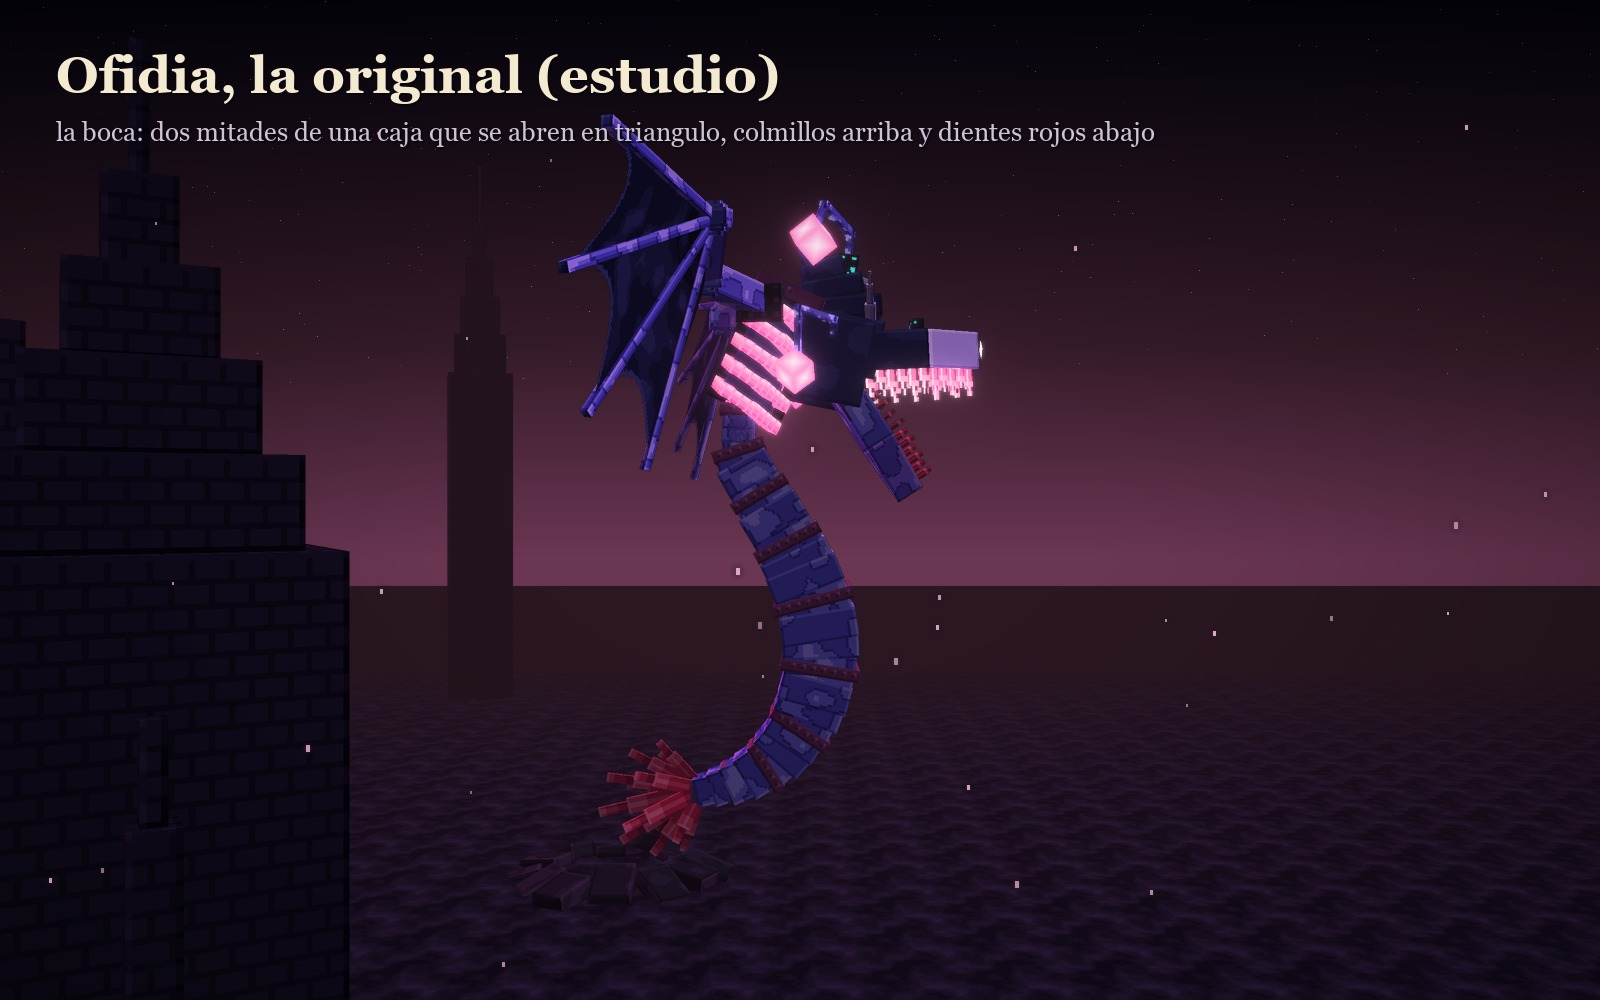
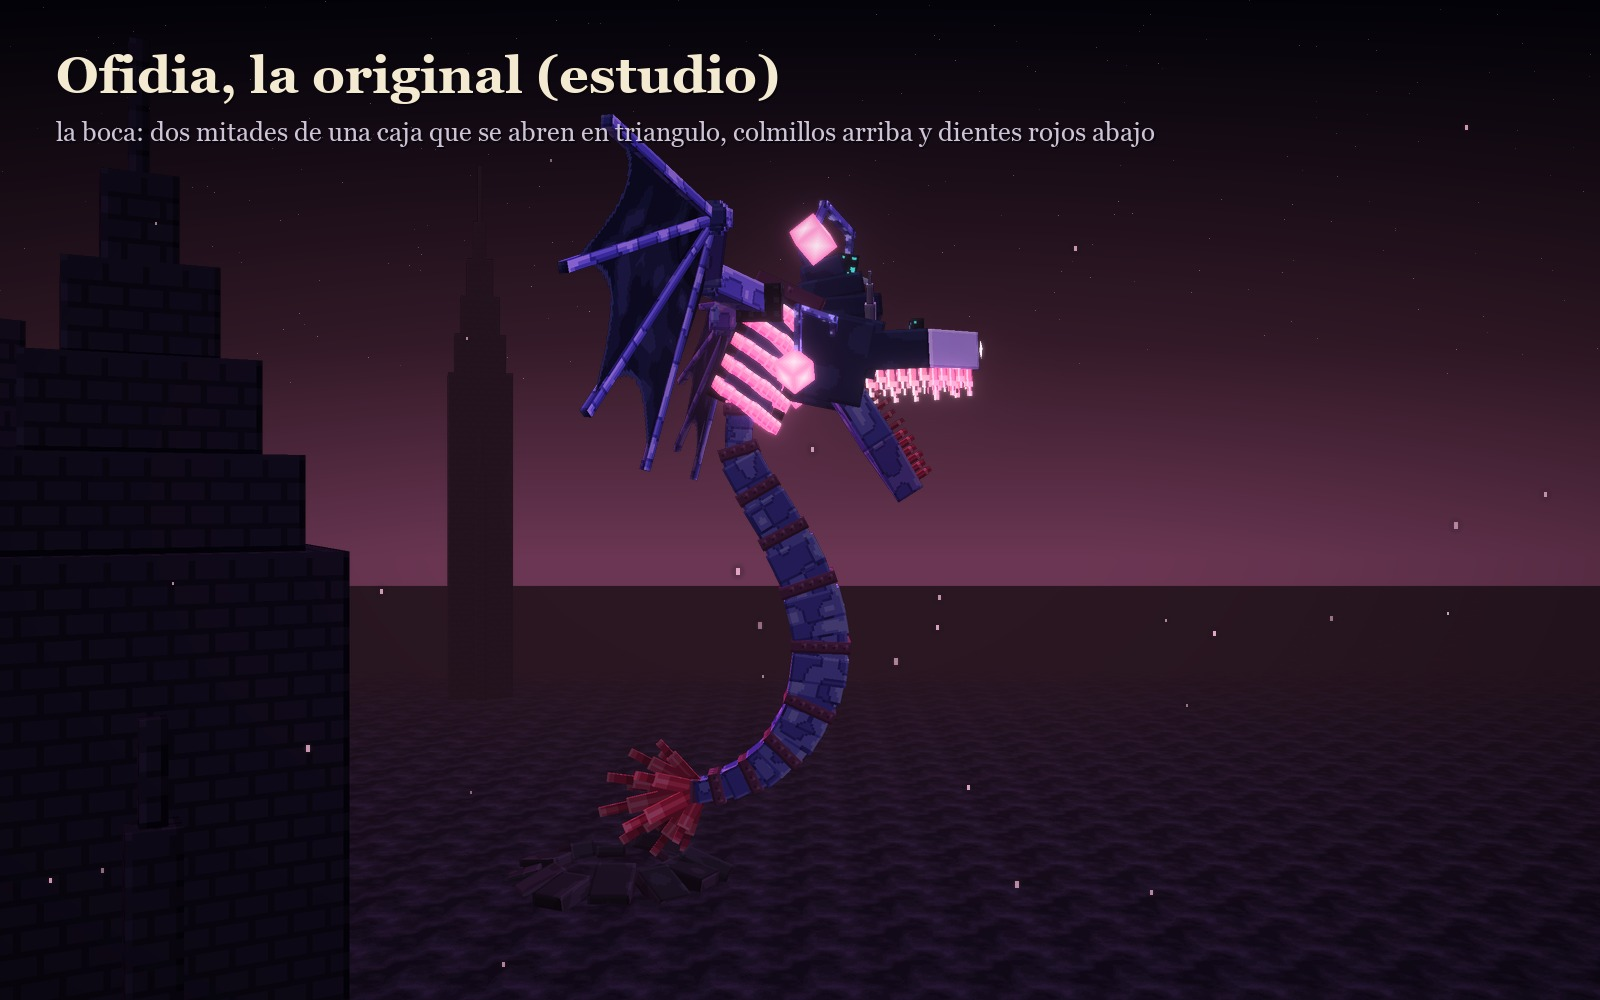
Ofidia sheet: narrower body overall
Juan asked for a less wide body in general. The drums still go from
small to big to small, now about three quarters as wide and a bit
longer each; the square drums looked even wider seen diagonally.

Changed region(s): [[0.4375, 0.434, 0.5625, 0.806]]

diff --git a/materiales/generadores/ofidia_modelo.py b/materiales/generadores/ofidia_modelo.py
@@ -22,8 +22,7 @@ bien su portada».
       rosas gruesas que brillan, con el canto blanco, que se abren hacia arriba, con huecos
       oscuros entre ellas, la columna detras y el esternon delante); la cintura, pequena; y
       debajo, tambores de marmol con su cinturon que van de menor a mayor y de mayor a menor
-      hasta la cola (lo mas gordo, a la mitad, algo mas del doble que la cintura, sin llegar a
-      gordo);
+      hasta la cola (lo mas gordo, a la mitad, el doble que la cintura, sin llegar a ancho);
     - dos alas de murcielago: el brazo (codo hacia atras, muneca hacia delante) y cuatro dedos
       largos en abanico, con la membrana azul noche tendida solo entre ellos y el borde libre en
       arcos (nada en las axilas). No llevan luz;
@@ -487,12 +486,13 @@ def _jirones(out, a, b, largo, P, semilla=0, vuelo=(0.0, 0.0, 0.0)):
 # ----------------------------------------------------------------------
 #  El cuerpo en ese: tambores de marmol con su cinturon, de menor a mayor y de mayor a menor
 # ----------------------------------------------------------------------
-CINTURA = 0.8                     # la cintura, lo mas fino del cuerpo
+CINTURA = 0.65                    # la cintura, lo mas fino del cuerpo
 # el grueso del cuerpo por la ese (fraccion del largo, radio): la cintura, pequena; el primer
-# tambor; crece hasta lo mas gordo, a la mitad (algo mas del doble que la cintura, sin llegar a
-# gordo), y de ahi mengua hasta la cola
-PERFIL = ((0.0, CINTURA), (0.09, CINTURA), (0.0901, 1.25), (0.25, 1.55), (0.45, 1.9), (0.6, 1.85), (0.75, 1.5),
-          (0.88, 1.1), (1.0, 0.65))
+# tambor; crece hasta lo mas gordo, a la mitad (el doble que la cintura, sin llegar a ancho), y
+# de ahi mengua hasta la cola. Juan lo quiso menos ancho «en general»: el cuerpo es de cajas
+# cuadradas y, visto en diagonal, parece aun mas ancho
+PERFIL = ((0.0, CINTURA), (0.09, CINTURA), (0.0901, 0.95), (0.25, 1.15), (0.45, 1.42), (0.6, 1.4), (0.75, 1.12),
+          (0.88, 0.85), (1.0, 0.5))
 INCLINA = 24.0                    # el torso se echa hacia delante (grados)
 ANCLA = np.array((0.0, 23.0, 0.0))  # la base del costillar: de aqui cuelga el cuerpo en ese
 
@@ -512,8 +512,8 @@ def _radio(f):
 def cuerpo_ese(out, V, P):
     """De la base del costillar a la aleta, por la ese: la cintura, pequena, y debajo tambores de
     marmol, un poco abombados, con un cinturon entre uno y otro, que van de menor a mayor (lo
-    mas gordo, a la mitad) y de mayor a menor hasta la cola; cada tambor es tan largo como 0,9
-    veces su grueso. Al final, la aleta roja que apunta hacia atras."""
+    mas gordo, a la mitad) y de mayor a menor hasta la cola; cada tambor es un poco mas largo que
+    grueso. Al final, la aleta roja que apunta hacia atras."""
     curva, _ = em.catmull(ESE, 800)
     curva = [np.asarray(p, float) for p in curva]
     L = [0.0]
@@ -528,7 +528,7 @@ def cuerpo_ese(out, V, P):
 
     cortes = [0.0, PERFIL[1][0] * total]                                          # los cinturones
     while True:
-        largo = max(1.6, 1.8 * _radio((cortes[-1] + 1.0) / total))
+        largo = max(1.8, 2.2 * _radio((cortes[-1] + 1.0) / total))
         if cortes[-1] + largo > total - 0.8:
             break
         cortes.append(cortes[-1] + largo)

diff --git a/materiales/fichas/ofidia/LEEME.md b/materiales/fichas/ofidia/LEEME.md
@@ -5,7 +5,7 @@ Eufonia Studio. Su cartel oficial está en
 https://x.com/dedsafio/status/2109039127597560179.
 
 Juan pidió el 12-10-2026 recrearla igual y hacerle variantes propias, «para no copiarla
-como tal». Hicieron falta once versiones:
+como tal». Hicieron falta doce versiones:
 
 1. La primera no se parecía: «fíjate bien cómo es Ofidia… date tu tiempo, investiga
    más».
@@ -45,6 +45,9 @@ como tal». Hicieron falta once versiones:
     - las alas de murciélago de antes, sin el cubo encendido de la muñeca;
     - la boca, más larga: la de abajo, más abierta, y el gancho negro en la punta de la de
       arriba, como en el cartel.
+12. La duodécima adelgazó el cuerpo: «hazlo menos ancho del cuerpo de Ofidia, en
+    general». Sigue yendo de menor a mayor y de mayor a menor, pero unos tres cuartos de
+    ancho. El cuerpo es de cajas cuadradas, y visto en diagonal parecía aún más ancho.
 
 **La original es solo para estudiarla; no va al mod.** Las candidatas son las tres
 variantes. A Juan le gustó la Encadenada.
@@ -77,7 +80,7 @@ En la forma de monstruo se ve:
   - el pecho;
   - la cintura, pequeña;
   - tambores de mármol, un poco abombados, que van de menor a mayor y de mayor a menor;
-    lo más gordo, a la mitad, es algo más del doble que la cintura, sin llegar a gordo;
+    lo más gordo, a la mitad, es el doble que la cintura; en general, es estrecho;
   - la aleta roja.
 
   Mide unos 33 bloques de alto con los cebos.
